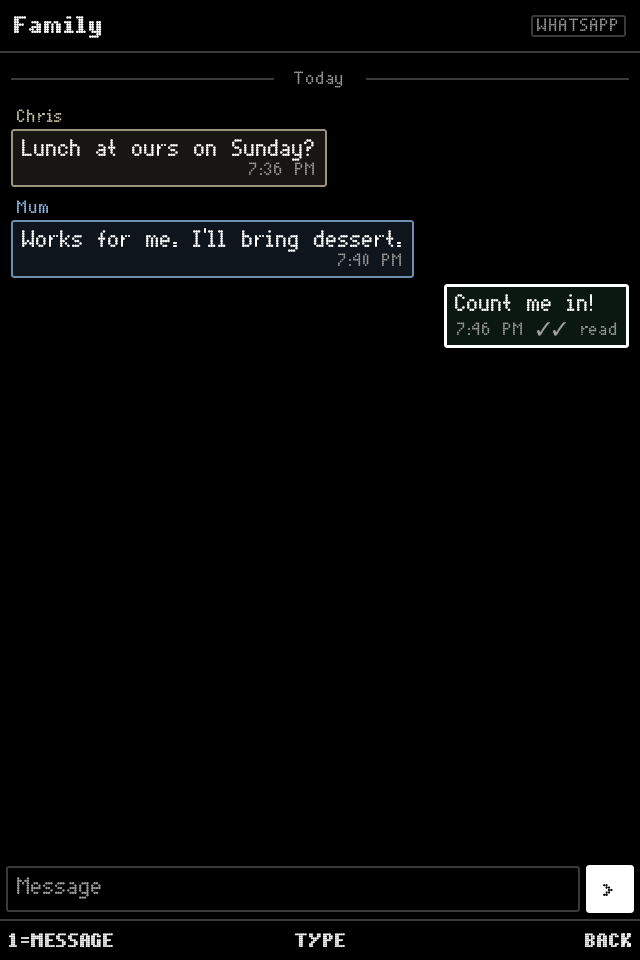
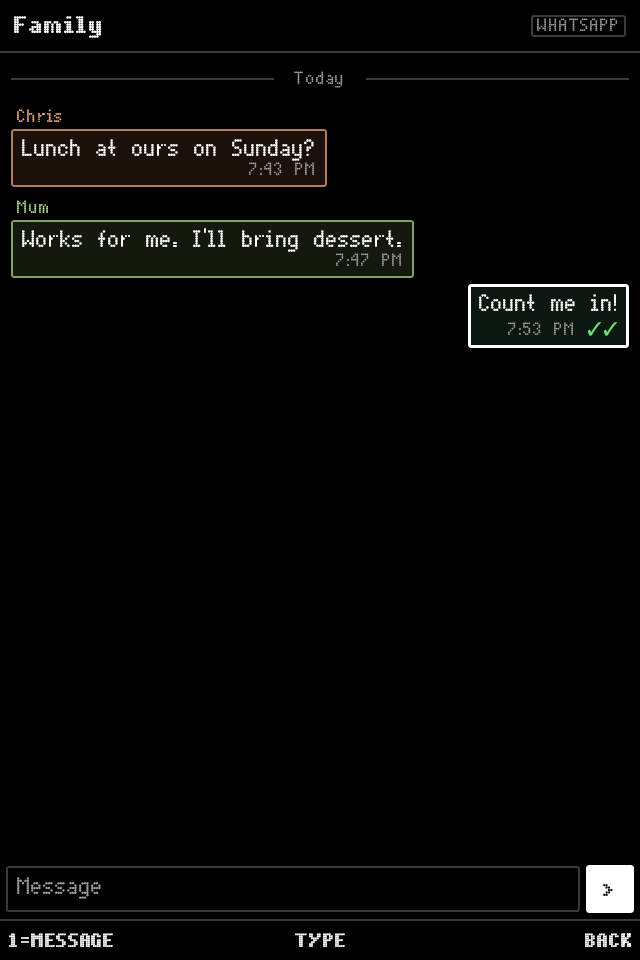
Colour receipts, aligned inbox ticks, distinct sender colours
- Receipts: ✓ sent, ✓✓ delivered (grey), green ✓✓ read, ⏱ while
  sending; no "read" text.
- Inbox ticks sit in one right-aligned column under the service icons,
  and preview sender names are bold again (in the bold dot face).
- Everyone in a chat gets their own colour, in order of appearance,
  from 12 tints (skipping ones close to the service colour, which is
  yours); quotes take the quoted person's colour.

diff --git a/app/src/main/kotlin/dev/dumbtalk/app/screens/MessageList.kt b/app/src/main/kotlin/dev/dumbtalk/app/screens/MessageList.kt
@@ -1,5 +1,8 @@
 package dev.dumbtalk.app.screens
 
+import androidx.compose.ui.text.buildAnnotatedString
+import dev.dumbtalk.app.ui.receiptMark
+import dev.dumbtalk.app.ui.assignTints
 import dev.dumbtalk.app.ui.serviceColor
 import dev.dumbtalk.app.ui.avatarTint
 import androidx.compose.ui.graphics.lerp
@@ -41,7 +44,6 @@ import dev.dumbtalk.core.Conversation
 import dev.dumbtalk.core.ConversationKind
 import dev.dumbtalk.core.Direction
 import dev.dumbtalk.core.Message
-import dev.dumbtalk.core.Receipt
 import java.time.Instant
 import java.time.LocalDate
 import java.time.ZoneId
@@ -66,6 +68,16 @@ internal fun MessageList(
     val time = remember { DateTimeFormatter.ofLocalizedTime(FormatStyle.SHORT) }
     val day = remember { DateTimeFormatter.ofPattern("EEE, MMM d") }
     val maxBubble = (LocalConfiguration.current.screenWidthDp * 0.88f).dp
+    // One distinct colour per person in this chat; yours is the service's.
+    val ownTint = serviceColor(conversation.serviceId)
+    fun personOf(message: Message) =
+        if (conversation.kind == ConversationKind.GROUP) message.sender ?: conversation.title else conversation.title
+    val tints = remember(messages, conversation) {
+        val people = messages.filter { it.direction == Direction.INCOMING }.map(::personOf) +
+            messages.mapNotNull { it.quote?.author }.filter { it != "You" }
+        assignTints(people, avoid = ownTint)
+    }
+    val tintOf = { name: String -> if (name == "You") ownTint else tints[name] ?: avatarTint(name) }
     LazyColumn(state = listState, contentPadding = PaddingValues(horizontal = 7.dp, vertical = 4.dp), modifier = Modifier.fillMaxSize()) {
         if (hasMore) {
             item(key = "older") {
@@ -89,17 +101,12 @@ internal fun MessageList(
                 val showSender = conversation.kind == ConversationKind.GROUP &&
                     message.direction == Direction.INCOMING &&
                     (previous?.sender != message.sender || date != previousDate)
-                // Each person keeps one colour: their avatar tint. Your own
-                // messages take the service's colour.
-                val tint = when {
-                    message.direction == Direction.OUTGOING -> serviceColor(conversation.serviceId)
-                    conversation.kind == ConversationKind.GROUP -> avatarTint(message.sender ?: conversation.title)
-                    else -> avatarTint(conversation.title)
-                }
+                val tint = if (message.direction == Direction.OUTGOING) ownTint else tintOf(personOf(message))
                 if (showSender) BasicText(message.sender.orEmpty().forDisplay(), style = Type.small.copy(color = tint), modifier = Modifier.padding(start = 4.dp, top = 6.dp))
                 Bubble(
                     message,
                     tint,
+                    tintOf,
                     time.format(Instant.ofEpochMilli(message.sentAt).atZone(zone)),
                     maxBubble,
                     focusRequester = if (message.id == selectedId) selectedFocus else null,
@@ -128,6 +135,7 @@ private fun DayDivider(label: String) {
 private fun Bubble(
     message: Message,
     tint: Color,
+    tintOf: (String) -> Color,
     time: String,
     maxWidth: androidx.compose.ui.unit.Dp,
     focusRequester: FocusRequester?,
@@ -152,7 +160,7 @@ private fun Bubble(
         ) {
             message.forwardedFrom?.let { BasicText("Forwarded from $it", style = Type.small.copy(color = Palette.muted)) }
             message.quote?.let { quote ->
-                val quoteTint = avatarTint(quote.author)
+                val quoteTint = tintOf(quote.author)
                 Column(
                     Modifier
                         .padding(bottom = 3.dp)
@@ -178,20 +186,17 @@ private fun Bubble(
                     modifier = Modifier.padding(top = 2.dp).border(1.dp, tint.copy(alpha = 0.45f), Square).padding(horizontal = 5.dp, vertical = 1.dp),
                 )
             }
-            val meta = buildString {
+            val meta = buildAnnotatedString {
                 if (message.pinned) append("📌".forDisplay() + " ")
                 if (message.edited && !message.deleted) append("edited · ")
                 append(time)
-                if (outgoing) append(receiptMark(message.receipt))
+                if (outgoing) {
+                    append(" ")
+                    append(receiptMark(message.receipt))
+                }
             }
             BasicText(meta, style = Type.small.copy(color = Palette.time, textAlign = TextAlign.End), modifier = Modifier.align(Alignment.End))
         }
     }
 }
 
-private fun receiptMark(receipt: Receipt?) = when (receipt?.state) {
-    null -> " ⏱"
-    Receipt.State.SENT -> " ✓"
-    Receipt.State.DELIVERED -> " ✓✓"
-    Receipt.State.READ -> " ✓✓ read"
-}

diff --git a/app/src/main/kotlin/dev/dumbtalk/app/screens/InboxScreen.kt b/app/src/main/kotlin/dev/dumbtalk/app/screens/InboxScreen.kt
@@ -1,5 +1,7 @@
 package dev.dumbtalk.app.screens
 
+import dev.dumbtalk.app.ui.receiptMark
+import dev.dumbtalk.app.ui.Fonts
 import dev.dumbtalk.app.ui.forDisplay
 import androidx.compose.foundation.Image
 import androidx.compose.foundation.layout.Arrangement
@@ -59,7 +61,6 @@ import dev.dumbtalk.app.ui.messageSummary
 import dev.dumbtalk.core.Conversation
 import dev.dumbtalk.core.ConversationKind
 import dev.dumbtalk.core.Direction
-import dev.dumbtalk.core.Receipt
 
 @Composable
 fun InboxScreen(app: DumbTalkApp, navigator: Navigator, archived: Boolean) {
@@ -161,7 +162,13 @@ fun ConversationRow(conversation: Conversation, onOpen: () -> Unit, onFocus: () 
                     ServiceIcon(conversation.serviceId, 18.dp)
                 }
             }
-            BasicText(previewText(conversation), style = Type.preview, maxLines = 1, overflow = TextOverflow.Ellipsis)
+            Row(verticalAlignment = Alignment.CenterVertically) {
+                BasicText(previewText(conversation), style = Type.preview, maxLines = 1, overflow = TextOverflow.Ellipsis, modifier = Modifier.weight(1f))
+                // Ticks line up in one column under the service icons.
+                conversation.lastMessage?.takeIf { it.direction == Direction.OUTGOING && conversation.typingNames.isEmpty() }?.let {
+                    BasicText(receiptMark(it.receipt), style = Type.preview, modifier = Modifier.padding(start = 6.dp))
+                }
+            }
         }
     }
 }
@@ -185,12 +192,6 @@ private fun previewText(conversation: Conversation) = buildAnnotatedString {
         conversation.kind == ConversationKind.GROUP -> firstName(message.sender) ?: "Someone"
         else -> conversation.title.forDisplay()
     }
-    // Regular weight: bold dot matrix smears at preview size.
-    withStyle(SpanStyle(color = Palette.sender)) { append("$sender: ") }
+    withStyle(SpanStyle(fontFamily = Fonts.dotBold, color = Palette.sender)) { append("$sender: ") }
     append(messageSummary(message).forDisplay())
-    val receipt = message.receipt?.takeIf { message.direction == Direction.OUTGOING }
-    if (receipt != null) {
-        val colour = if (receipt.state == Receipt.State.READ) Palette.focus else Palette.muted
-        withStyle(SpanStyle(color = colour)) { append(if (receipt.state == Receipt.State.SENT) "  ✓" else "  ✓✓") }
-    }
 }

diff --git a/app/src/main/kotlin/dev/dumbtalk/app/ui/Tints.kt b/app/src/main/kotlin/dev/dumbtalk/app/ui/Tints.kt
@@ -1,0 +1,43 @@
+package dev.dumbtalk.app.ui
+
+import androidx.compose.ui.graphics.Color
+import kotlin.math.abs
+
+/**
+ * Subtle tints that stand in for photos and tell people apart. A name
+ * always prefers the same tint; within one chat, [assignTints] keeps
+ * everyone distinct.
+ */
+private val tints = listOf(
+    Color(0xFFE6C38F), Color(0xFF8FD3C9), Color(0xFFE7A0AC), Color(0xFFBDAAE8),
+    Color(0xFFB5D98C), Color(0xFF98C2EE), Color(0xFFEDAD80), Color(0xFFD2CBAE),
+    Color(0xFF9FE0B5), Color(0xFFF09A8A), Color(0xFFD6A6E3), Color(0xFFE3D27C),
+)
+
+private fun preferred(name: String) = Math.floorMod(name.hashCode(), tints.size)
+
+/** A name's usual tint, used where only one person is shown (inbox avatars). */
+fun avatarTint(name: String): Color = tints[preferred(name)]
+
+private fun close(a: Color, b: Color) = abs(a.red - b.red) + abs(a.green - b.green) + abs(a.blue - b.blue) < 0.25f
+
+/**
+ * Distinct tints for the people in one chat, in order of appearance: each
+ * gets their usual tint unless someone earlier has it, then the next free
+ * one. Tints close to [avoid] (your own colour there) are skipped. With more
+ * people than tints, colours repeat.
+ */
+fun assignTints(names: List<String>, avoid: Color): Map<String, Color> {
+    val usable = tints.filterNot { close(it, avoid) }
+    val taken = mutableSetOf<Color>()
+    val result = linkedMapOf<String, Color>()
+    for (name in names) {
+        if (name in result) continue
+        if (taken.size == usable.size) taken.clear()
+        val start = Math.floorMod(name.hashCode(), usable.size)
+        val tint = (usable.indices).map { usable[(start + it) % usable.size] }.first { it !in taken }
+        taken += tint
+        result[name] = tint
+    }
+    return result
+}

diff --git a/app/src/test/kotlin/dev/dumbtalk/app/TintsTest.kt b/app/src/test/kotlin/dev/dumbtalk/app/TintsTest.kt
@@ -1,0 +1,31 @@
+package dev.dumbtalk.app
+
+import androidx.compose.ui.graphics.Color
+import dev.dumbtalk.app.ui.assignTints
+import org.junit.Assert.assertEquals
+import org.junit.Assert.assertNotEquals
+import org.junit.Test
+
+class TintsTest {
+    private val telegramBlue = Color(0xFF7CC4EA)
+
+    @Test
+    fun everyoneInAChatGetsTheirOwnColour() {
+        val people = listOf("David Tate", "Gillian Tate", "Alex", "Sam T", "Mum", "Chris")
+        val tints = assignTints(people, avoid = telegramBlue)
+        assertEquals(people.size, tints.values.toSet().size)
+    }
+
+    @Test
+    fun nobodySharesYourColour() {
+        val tints = assignTints(listOf("David Tate", "Gillian Tate", "Alex"), avoid = telegramBlue)
+        tints.values.forEach { assertNotEquals(telegramBlue, it) }
+    }
+
+    @Test
+    fun aPersonKeepsTheirColourAsOthersJoinLater() {
+        val first = assignTints(listOf("David Tate"), avoid = telegramBlue).getValue("David Tate")
+        val later = assignTints(listOf("David Tate", "Gillian Tate"), avoid = telegramBlue).getValue("David Tate")
+        assertEquals(first, later)
+    }
+}

diff --git a/app/src/main/kotlin/dev/dumbtalk/app/ui/Receipts.kt b/app/src/main/kotlin/dev/dumbtalk/app/ui/Receipts.kt
@@ -1,0 +1,21 @@
+package dev.dumbtalk.app.ui
+
+import androidx.compose.ui.graphics.Color
+import androidx.compose.ui.text.AnnotatedString
+import androidx.compose.ui.text.SpanStyle
+import androidx.compose.ui.text.buildAnnotatedString
+import androidx.compose.ui.text.withStyle
+import dev.dumbtalk.core.Receipt
+
+/** Read ticks stand out in green; sent and delivered stay grey. */
+val ReadColor = Color(0xFF6EE07A)
+
+/** ⏱ while sending, ✓ sent, ✓✓ delivered, green ✓✓ read. */
+fun receiptMark(receipt: Receipt?): AnnotatedString = buildAnnotatedString {
+    when (receipt?.state) {
+        null -> withStyle(SpanStyle(color = Palette.muted)) { append("⏱") }
+        Receipt.State.SENT -> withStyle(SpanStyle(color = Palette.muted)) { append("✓") }
+        Receipt.State.DELIVERED -> withStyle(SpanStyle(color = Palette.muted)) { append("✓✓") }
+        Receipt.State.READ -> withStyle(SpanStyle(color = ReadColor)) { append("✓✓") }
+    }
+}

diff --git a/app/src/main/kotlin/dev/dumbtalk/app/ui/Components.kt b/app/src/main/kotlin/dev/dumbtalk/app/ui/Components.kt
@@ -143,16 +143,6 @@ fun initials(value: String): String =
         .joinToString("")
         .ifEmpty { "?" }
 
-/**
- * Subtle tints so chats with the same initials look different; the same
- * name always gets the same tint. Stands in until real photos are shown.
- */
-private val avatarTints = listOf(
-    Color(0xFFE6C38F), Color(0xFF8FD3C9), Color(0xFFE7A0AC), Color(0xFFBDAAE8),
-    Color(0xFFB5D98C), Color(0xFF98C2EE), Color(0xFFEDAD80), Color(0xFFD2CBAE),
-)
-
-fun avatarTint(title: String): Color = avatarTints[Math.floorMod(title.hashCode(), avatarTints.size)]
 
 @Composable
 fun Avatar(title: String, unread: Int = 0, size: Dp = 34.dp, noteToSelf: Boolean = false) {
